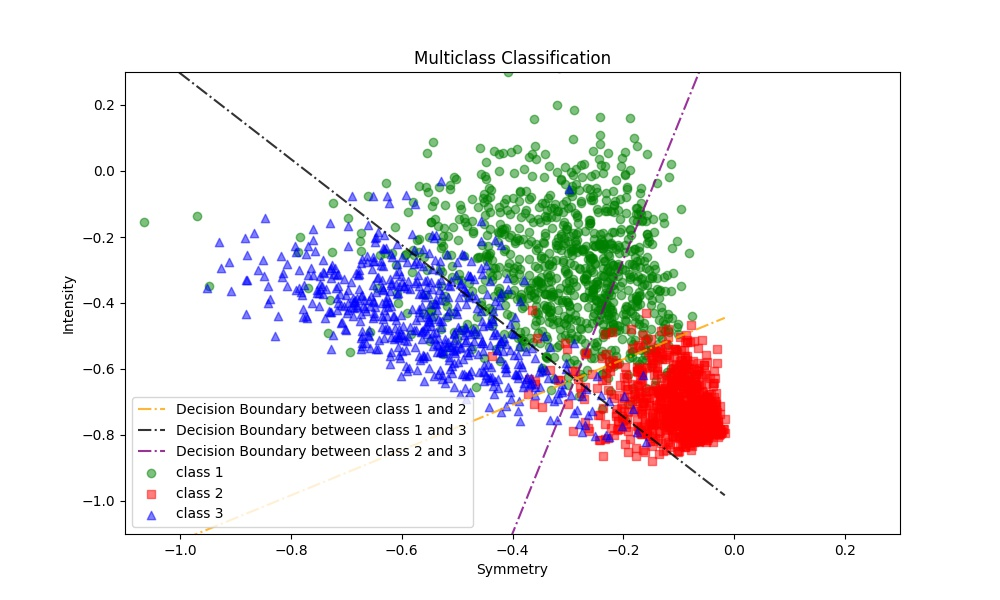
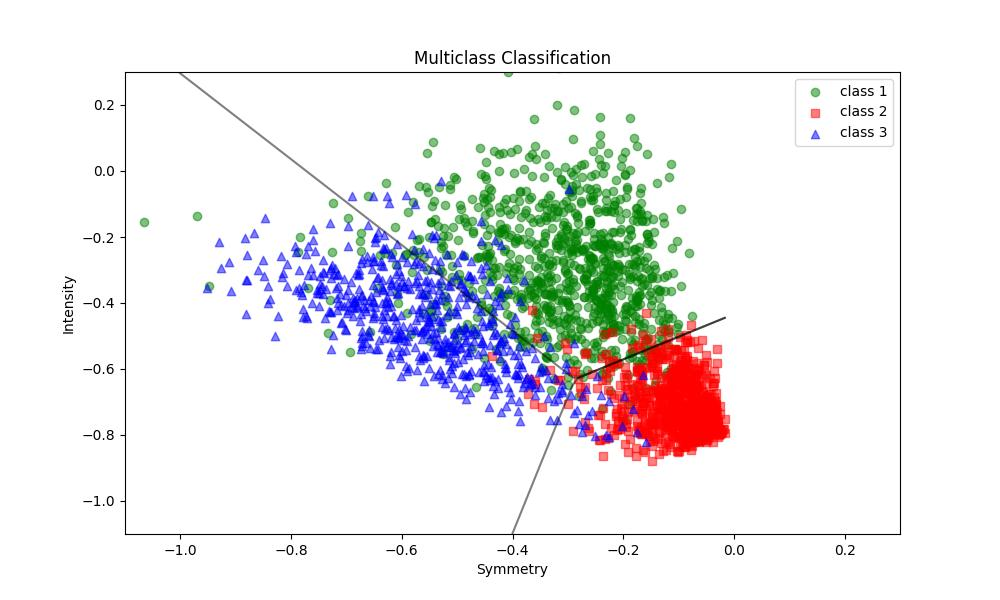
modified graph

diff --git a/HW1/code/main.py b/HW1/code/main.py
@@ -82,14 +82,24 @@ def visualize_result_multi(X, y, W):
     ys1 = -(W[0, 0]-W[2, 0])/(W[0, 2]-W[2, 2]) - (W[0, 1]-W[2, 1])/(W[0, 2]-W[2, 2])*xs
     ys2 = -(W[1, 0]-W[2, 0])/(W[1, 2]-W[2, 2]) - (W[1, 1]-W[2, 1])/(W[1, 2]-W[2, 2])*xs
 
+    ys0_ys1 = np.maximum.reduce([ys0, ys1])
+    ys0_ys2 = np.minimum.reduce([ys0, ys2])
+
     plt.figure(figsize=(10, 6))
     plt.scatter(X[y==0, 0], X[y==0, 1], c='green', marker='o', label='class 1', alpha=0.5)
     plt.scatter(X[y==1, 0], X[y==1, 1], c='red',   marker='s', label='class 2', alpha=0.5)
     plt.scatter(X[y==2, 0], X[y==2, 1], c='blue',  marker='^', label='class 3', alpha=0.5)
 
-    plt.plot(xs, ys0, c='orange', label='Decision Boundary between class 1 and 2', alpha=0.8, linestyle='-.')
-    plt.plot(xs, ys1, c='black',  label='Decision Boundary between class 1 and 3', alpha=0.8, linestyle='-.')
-    plt.plot(xs, ys2, c='purple', label='Decision Boundary between class 2 and 3', alpha=0.8, linestyle='-.')
+    # # original decision boundary
+    # plt.plot(xs, ys0, c='yellow', label='DB between class 1 and 2', alpha=0.5)
+    # plt.plot(xs, ys1, c='black',  label='DB between class 1 and 3', alpha=0.5)
+    # plt.plot(xs, ys2, c='purple', label='DB between class 2 and 3', alpha=0.5)
+
+    # new decision boundary
+    # combination of 'decision boundary between class 1 and 2' + 'decision boundary between class 1 and 3'
+    plt.plot(xs, ys0_ys1, c='black', alpha=0.5)
+    # combination of 'decision boundary between class 1 and 2' + 'decision boundary between class 2 and 3'
+    plt.plot(xs, ys0_ys2, c='black', alpha=0.5)
 
     plt.title('Multiclass Classification')
     plt.xlim([-1.1, 0.3])
@@ -166,11 +176,13 @@ def main():
     # print(logisticR_classifier.score(train_X, train_y))
 
     # This one is the best one.
+    print("----------------- BEGIN: Best LR parameters, train, and valid accuracy -----------------")
     best_logisticR = logistic_regression(learning_rate=1e-2, max_iter=1000)
     best_logisticR.fit_miniBGD(train_X, train_y, 5)
     print(best_logisticR.get_params())
     print(best_logisticR.score(train_X, train_y))
     print(best_logisticR.score(valid_X, valid_y))
+    print("----------------- END: Best LR parameters, train, and valid accuracy -----------------")
 
     # logisticR_classifier = logistic_regression(learning_rate=1e-2, max_iter=1000)
     # logisticR_classifier.fit_miniBGD(train_X, train_y, 10)
@@ -187,6 +199,7 @@ def main():
 
     # Use the 'best' model above to do testing. Note that the test data should be loaded and processed in the same way as the training data.
     ### YOUR CODE HERE
+    print("----------------- BEGIN: Best LR test accuracy -----------------")
     test_data, test_labels = load_data(os.path.join(data_dir, test_filename))
     test_X_all = prepare_X(test_data)
     test_y_all, test_idx = prepare_y(test_labels)
@@ -196,8 +209,9 @@ def main():
 
     test_y[np.where(test_y == 2)] = -1
 
-    print("Logistic Regression Sigmoid Case")
     print("Accuracy on test data:", best_logisticR.score(test_X, test_y))
+    print("----------------- END: Best LR test accuracy -----------------")
+    print("***************** !Logistic Regression Sigmoid Case DONE! *****************")
     ### END YOUR CODE
 
 
@@ -216,11 +230,13 @@ def main():
 
     # Explore different hyper-parameters.
     ### YOUR CODE HERE
+    print("----------------- BEGIN: Best Multi LR parameters, train, and valid accuracy -----------------")
     best_logistic_multi_R = logistic_regression_multiclass(learning_rate=1e-2, max_iter=1000, k=3)
     best_logistic_multi_R.fit_miniBGD(train_X, train_y, 5)
     print(best_logistic_multi_R.get_params())
     print(best_logistic_multi_R.score(train_X, train_y))
     print(best_logistic_multi_R.score(valid_X, valid_y))
+    print("----------------- END: Best Multi LR parameters, train, and valid accuracy -----------------")
     ### END YOUR CODE
 
     # Visualize the your 'best' model after training.
@@ -229,14 +245,16 @@ def main():
 
     # Use the 'best' model above to do testing.
     ### YOUR CODE HERE
+    print("----------------- BEGIN: Best Multi LR test accuracy -----------------")
     visualize_result_multi(train_X[:, 1:3], train_y, best_logistic_multi_R.get_params())
 
     test_data, test_labels = load_data(os.path.join(data_dir, test_filename))
     test_X_all = prepare_X(test_data)
     test_y_all, _ = prepare_y(test_labels)
 
-    print("Logistic Regression Multiple-class case")
     print("Accuracy on test data:", best_logistic_multi_R.score(test_X_all, test_y_all))
+    print("----------------- END: Best Multi LR test accuracy -----------------")
+    print("***************** !Logistic Regression Multiple-class case DONE! *****************")
     ### END YOUR CODE
 
 

diff --git a/HW1/code/LogisticRegression.py b/HW1/code/LogisticRegression.py
@@ -63,9 +63,9 @@ class logistic_regression(object):
                     [self._gradient(x, y) for x, y in zip(X[global_idx:global_idx + samples_size], y[global_idx:global_idx + samples_size])], axis=0)
                 self.W = self.W + self.learning_rate * (-batch_gradient)
 
-                all_gradients.append(batch_gradient)
+                all_gradients.append(batch_gradient[0])
 
-        print("All gradients in Binary:", all_gradients)
+        # print("All gradients in Binary:", all_gradients)
 
         ### END YOUR CODE
         return self

diff --git a/HW1/code/LRM.py b/HW1/code/LRM.py
@@ -66,9 +66,9 @@ class logistic_regression_multiclass(object):
                 
                 self.W = self.W + self.learning_rate * (-batch_gradient)
 
-                all_gradients.append(batch_gradient)
+                all_gradients.append(batch_gradient[0])
 
-        print("All gradients in Multi:", all_gradients)
+        # print("All gradients in Multi:", all_gradients)
         ### END YOUR CODE
     
 
